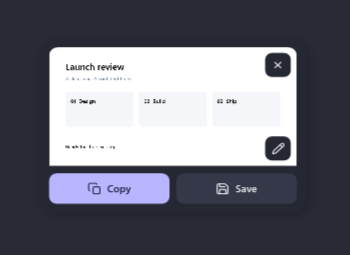
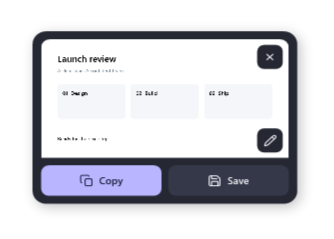
feat: enhance screenshot rendering with title bar and transparency adjustments

diff --git a/Tests/ReadmeScreenshots.cs b/Tests/ReadmeScreenshots.cs
@@ -7,6 +7,8 @@ using System.Windows.Threading;
 using BetterScreenShot;
 using Brushes = System.Windows.Media.Brushes;
 using MediaColor = System.Windows.Media.Color;
+using MediaPen = System.Windows.Media.Pen;
+using WpfPoint = System.Windows.Point;
 
 internal static class ReadmeScreenshots
 {
@@ -27,15 +29,15 @@ internal static class ReadmeScreenshots
             typeof(MainWindow).GetMethod("ApplyTheme", BindingFlags.Instance | BindingFlags.NonPublic)!
                 .Invoke(launcher, [theme]);
             ((System.Windows.Shapes.Path)launcher.FindName("ThemeGlyphPath")).Data = ThemeIconService.ThemeGlyph(theme);
-            RenderOffscreen(launcher, 520, 390, Path.Combine(output, $"launcher-{suffix}.png"));
+            RenderOffscreen(launcher, 520, 390, Path.Combine(output, $"launcher-{suffix}.png"), theme,
+                "BetterScreenShot");
             launcher.Close();
 
             var toastSource = WriteFixture(fixtures, $"toast-{suffix}", sample);
             var toast = new ScreenshotToastWindow(toastSource, System.Windows.Forms.Screen.PrimaryScreen!.Bounds, sample);
             typeof(ScreenshotToastWindow).GetMethod("ApplyToastTheme", BindingFlags.Instance | BindingFlags.NonPublic,
                     null, [typeof(AppTheme)], null)!.Invoke(toast, [theme]);
-            RenderOffscreen(toast, 310, 215, Path.Combine(output, $"preview-{suffix}.png"),
-                theme == AppTheme.Dark ? MediaColor.FromRgb(40, 43, 52) : MediaColor.FromRgb(225, 229, 228));
+            RenderOffscreen(toast, 310, 215, Path.Combine(output, $"preview-{suffix}.png"), theme);
             toast.Close();
 
             var editorSource = WriteFixture(fixtures, $"editor-{suffix}", sample);
@@ -43,7 +45,8 @@ internal static class ReadmeScreenshots
             ThemeIconService.ApplyViewerTheme(editor.Resources, theme);
             var surface = (AnnotationSurface)editor.FindName("Annotations");
             AddDemoAnnotations(surface);
-            RenderOffscreen(editor, 1280, 850, Path.Combine(output, $"editor-{suffix}.png"),
+            RenderOffscreen(editor, 1360, 800, Path.Combine(output, $"editor-{suffix}.png"), theme,
+                "Screenshot Editor",
                 afterLayout: () => surface.Select(2));
             editor.Close();
 
@@ -76,7 +79,7 @@ internal static class ReadmeScreenshots
         var source = WriteFixture(fixtures, Path.GetFileNameWithoutExtension(output), image);
         var editor = new ScreenshotViewerWindow(new TemporaryScreenshot(source), image)
         {
-            Width = 1280, Height = 850, Left = -20000, Top = -20000,
+            Width = 1360, Height = 800, Left = -20000, Top = -20000,
             WindowStartupLocation = WindowStartupLocation.Manual, ShowInTaskbar = false, ShowActivated = false
         };
         try
@@ -100,7 +103,7 @@ internal static class ReadmeScreenshots
             textBox.Focus();
             ThemeIconService.ApplyViewerTheme(editor.Resources, theme);
             editor.UpdateLayout();
-            RenderContent(editor, output);
+            RenderContent(editor, output, theme, "Screenshot Editor");
         }
         finally { editor.Close(); }
     }
@@ -115,8 +118,8 @@ internal static class ReadmeScreenshots
         return path;
     }
 
-    private static void RenderOffscreen(Window window, int width, int height, string output, MediaColor? backdrop = null,
-        Action? afterLayout = null)
+    private static void RenderOffscreen(Window window, int width, int height, string output, AppTheme theme,
+        string? title = null, Action? afterLayout = null)
     {
         var content = (FrameworkElement)window.Content;
         content.Measure(new System.Windows.Size(width, height));
@@ -124,30 +127,53 @@ internal static class ReadmeScreenshots
         content.UpdateLayout();
         afterLayout?.Invoke();
         content.UpdateLayout();
-        RenderContent(window, output, backdrop);
+        RenderContent(window, output, theme, title);
     }
 
-    private static void RenderContent(Window window, string output, MediaColor? backdrop = null)
+    private static void RenderContent(Window window, string output, AppTheme theme, string? title = null)
     {
         var content = (FrameworkElement)window.Content;
         var width = (int)Math.Ceiling(content.ActualWidth);
         var height = (int)Math.Ceiling(content.ActualHeight);
-        var margin = backdrop is null ? 0 : 20;
+        var margin = title is null ? 12 : 0;
+        var captionHeight = title is null ? 0 : 32;
+        var bounds = new Rect(margin, margin, width, height + captionHeight);
         var visual = new DrawingVisual();
         using (var drawing = visual.RenderOpen())
         {
-            drawing.DrawRectangle(backdrop is MediaColor color ? new SolidColorBrush(color) : window.Background,
-                null, new Rect(0, 0, width + margin * 2, height + margin * 2));
+            if (title is not null)
+            {
+                drawing.PushClip(new RectangleGeometry(bounds, 10, 10));
+                drawing.DrawRectangle(new SolidColorBrush(theme == AppTheme.Dark
+                    ? MediaColor.FromRgb(32, 33, 36) : MediaColor.FromRgb(250, 250, 250)), null, bounds);
+                DrawTitleBar(drawing, title, theme, width);
+            }
             drawing.DrawRectangle(new VisualBrush(content), null,
-                new Rect(margin, margin, width, height));
+                new Rect(margin, margin + captionHeight, width, height));
+            if (title is not null) drawing.Pop();
         }
-        var bitmap = new RenderTargetBitmap(width + margin * 2, height + margin * 2, 96, 96, PixelFormats.Pbgra32);
+        var bitmap = new RenderTargetBitmap(width + margin * 2, height + captionHeight + margin * 2,
+            96, 96, PixelFormats.Pbgra32);
         bitmap.Render(visual);
         var encoder = new PngBitmapEncoder();
         encoder.Frames.Add(BitmapFrame.Create(bitmap));
         using var stream = File.Create(output);
         encoder.Save(stream);
         Console.WriteLine(output);
+    }
+
+    private static void DrawTitleBar(DrawingContext drawing, string title, AppTheme theme, int width)
+    {
+        var foreground = new SolidColorBrush(theme == AppTheme.Dark
+            ? MediaColor.FromRgb(240, 240, 246) : MediaColor.FromRgb(37, 39, 53));
+        drawing.DrawImage(ThemeIconService.CreateScanIcon(theme), new Rect(10, 8, 16, 16));
+        drawing.DrawText(new FormattedText(title, System.Globalization.CultureInfo.InvariantCulture,
+            System.Windows.FlowDirection.LeftToRight, new Typeface("Segoe UI"), 12, foreground, 1), new WpfPoint(33, 8));
+        var pen = new MediaPen(foreground, 1);
+        drawing.DrawLine(pen, new WpfPoint(width - 112, 16), new WpfPoint(width - 100, 16));
+        drawing.DrawRectangle(null, pen, new Rect(width - 73, 11, 9, 9));
+        drawing.DrawLine(pen, new WpfPoint(width - 30, 11), new WpfPoint(width - 20, 21));
+        drawing.DrawLine(pen, new WpfPoint(width - 20, 11), new WpfPoint(width - 30, 21));
     }
 
     public static int Demo(string view)

diff --git a/docs/screenshots/README.md b/docs/screenshots/README.md
@@ -1,6 +1,6 @@
 # App screenshots
 
-These PNGs render the current WPF window content with sample images and annotations. Each screen has a light and dark version. The fixtures use no personal desktop content and do not change saved theme or shortcut preferences.
+These PNGs render the current WPF window content with sample images and annotations. The documentation renderer adds a matching title bar to the launcher and editor, and leaves pixels outside each rounded window transparent. The capture preview is a transparent cutout of the actual toast. Each screen has a light and dark version. The fixtures use no personal desktop content and do not change saved theme or shortcut preferences.
 
 Regenerate all ten images with:
 
@@ -16,4 +16,4 @@ dotnet run --project Tests/BetterScreenShot.RegressionTests.csproj -c Release --
 | `text-recognition-{light,dark}.png` | Extracted text panel and matching image-word selection |
 | `text-selection-{light,dark}.png` | A selected passage spanning two lines, with matching panel text |
 
-The root README embeds these files with relative paths so they display on GitHub. The screenshots show the app content without the Windows title bar; title bar appearance depends on the user's Windows theme and version.
+The root README embeds these files with relative paths so they display on GitHub. Windows may draw the live title bar differently depending on the user's version and settings.
